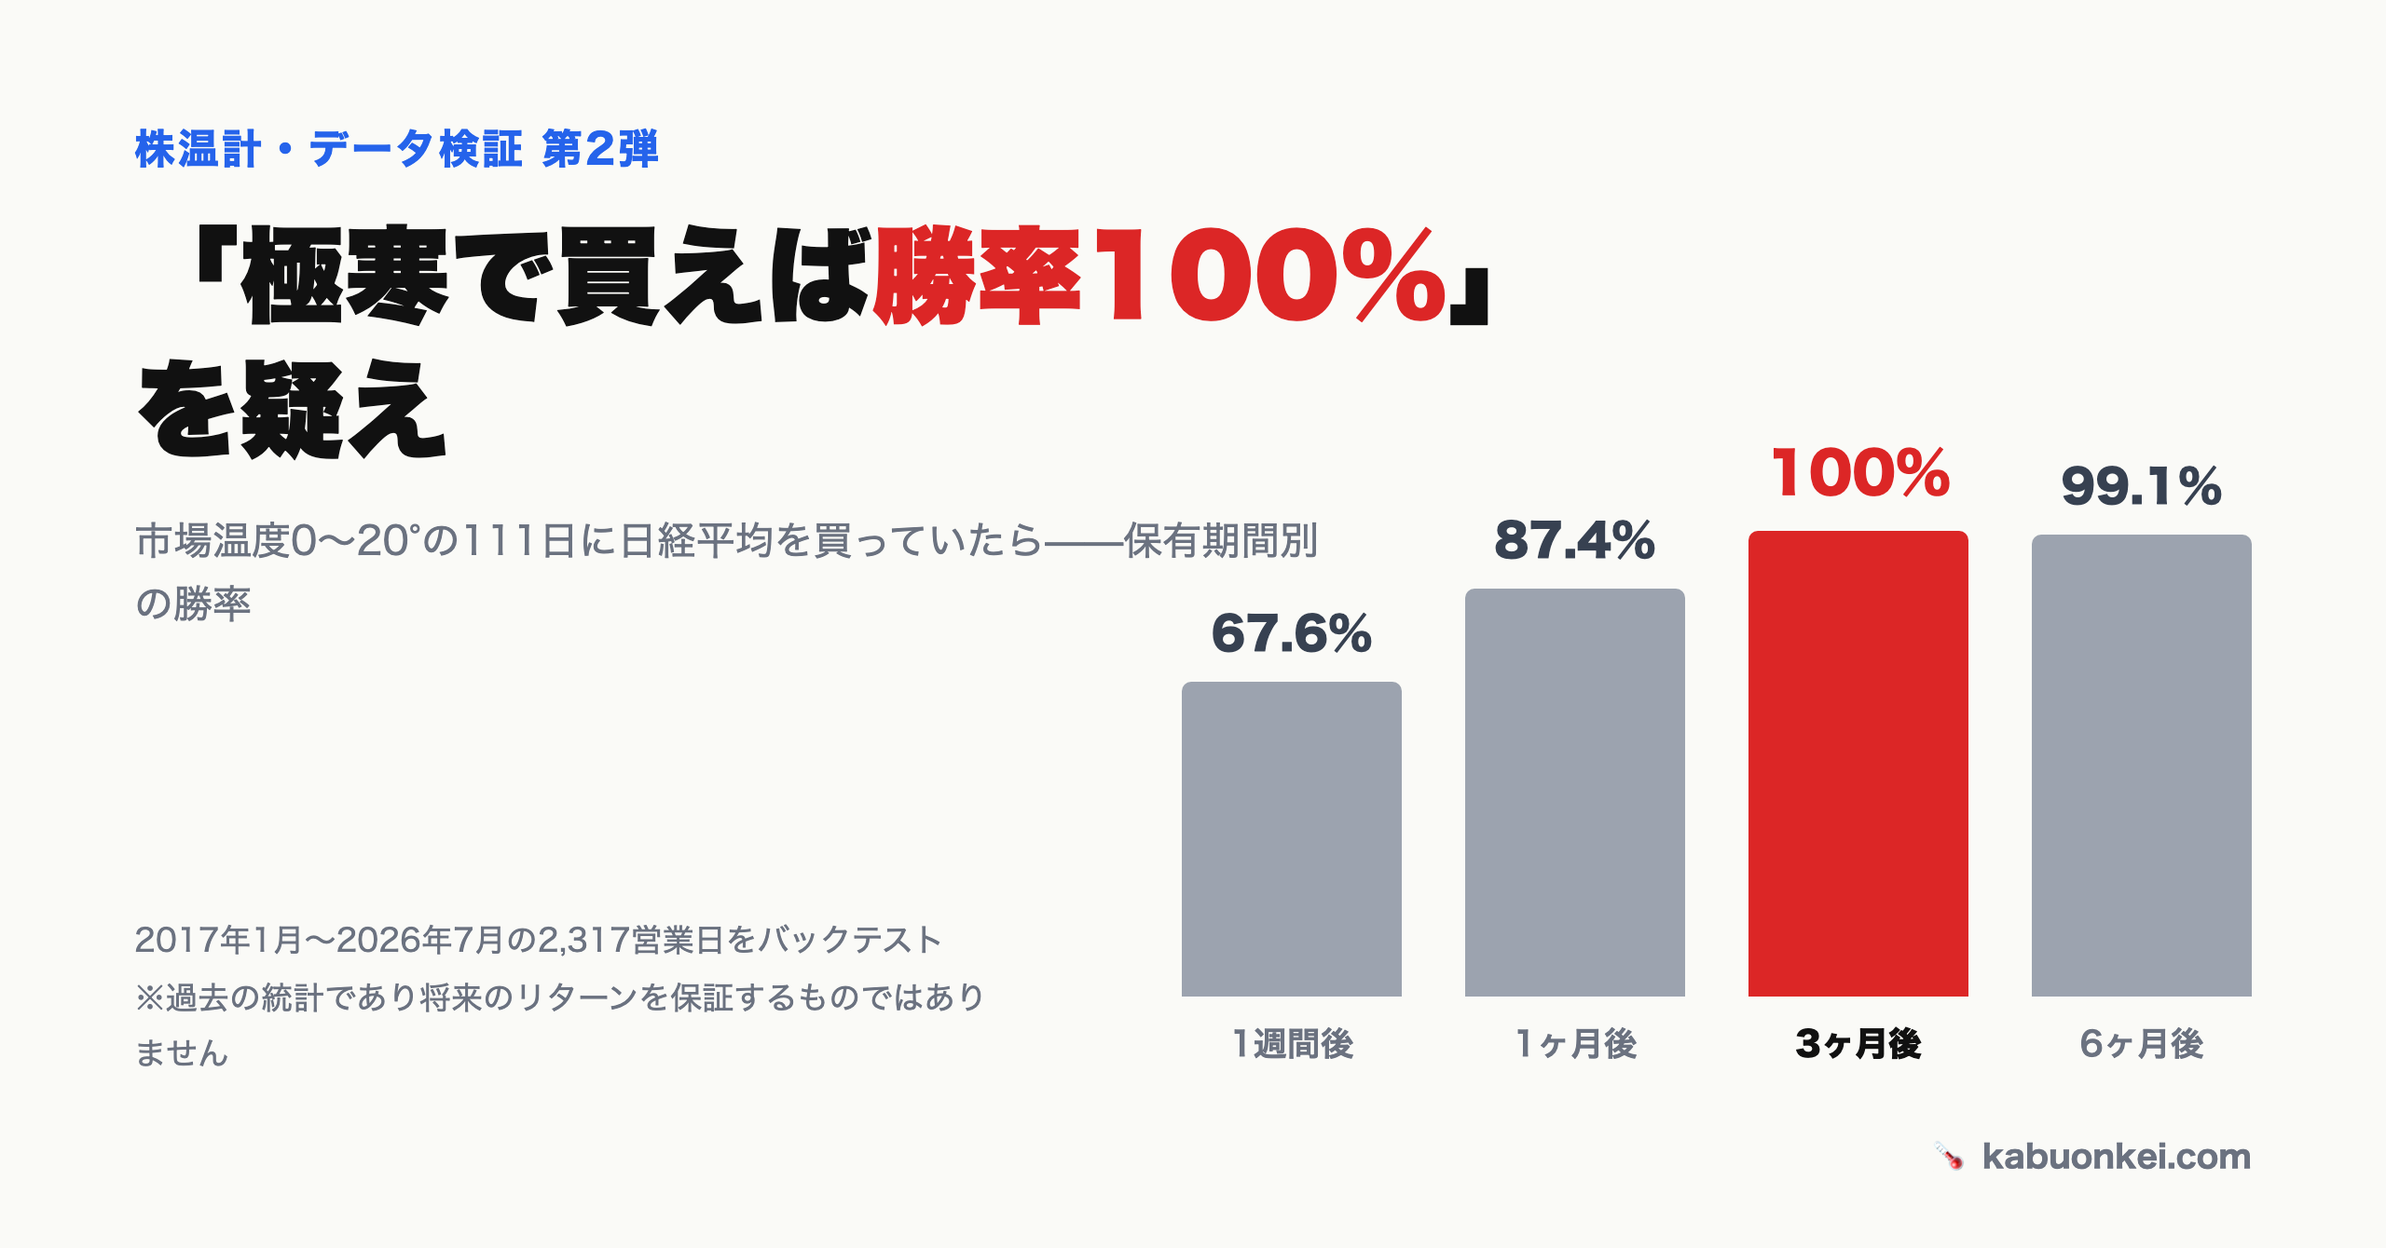
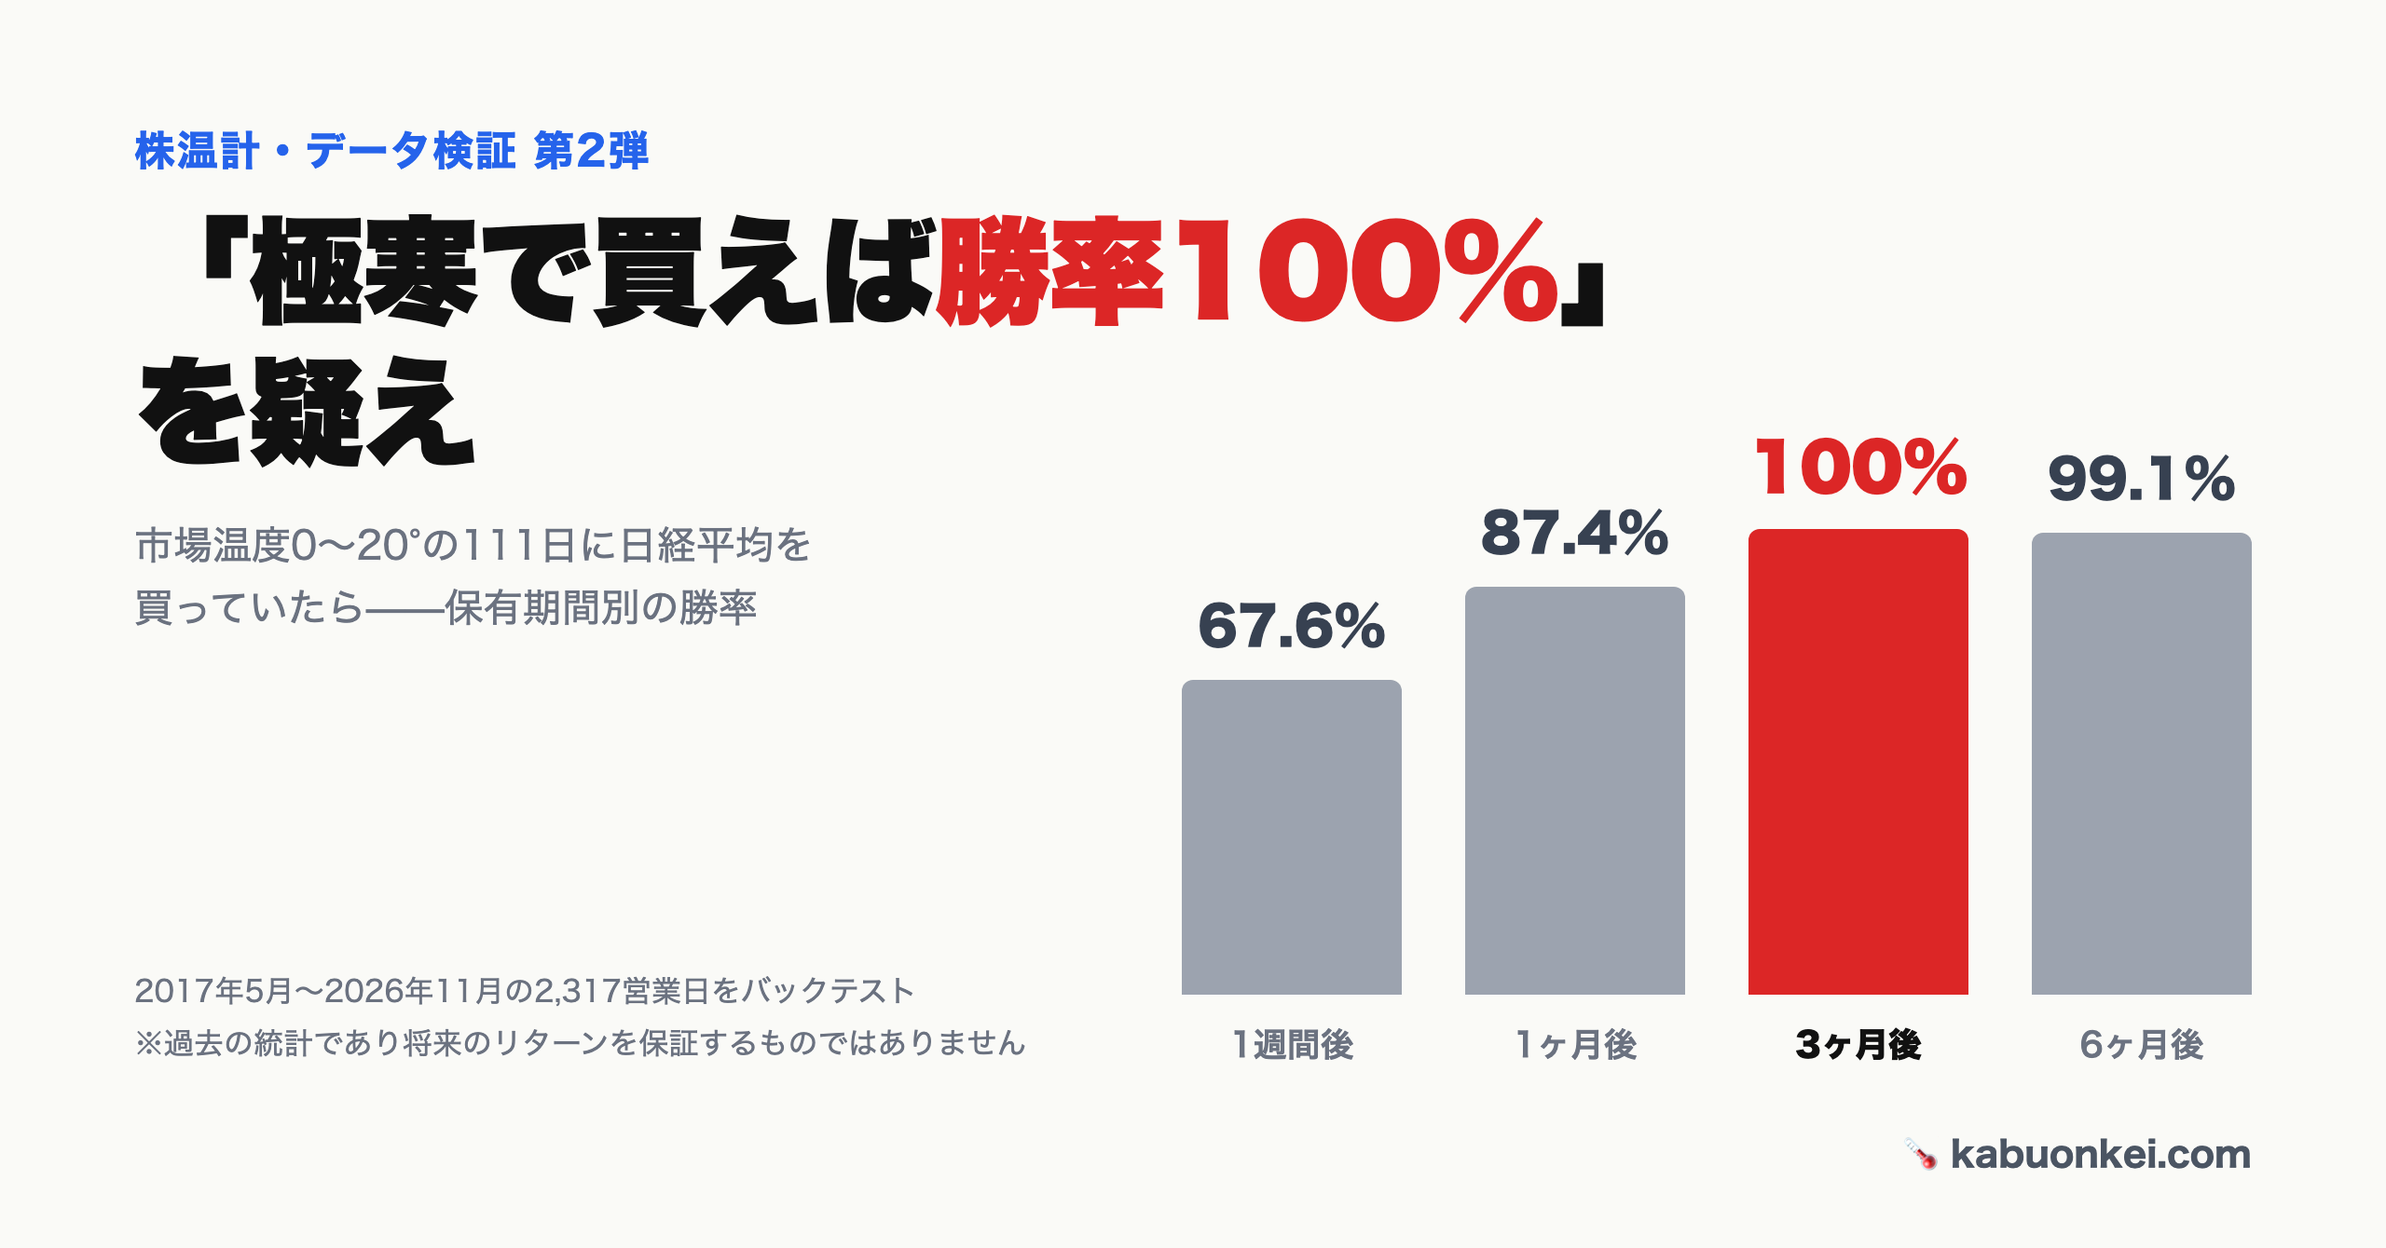
docs(note): 第2弾の数字を 2026-11-13 時点のデータで再検証し、投稿できる状態に更新
- 全統計値を現行データで再計算し、初稿（2026-07-07 基準）と一致することを確認
- 集計期間の表記を 2017年5月〜2026年11月 に更新（本文・アイキャッチ・期間別テーブル）
- 「いま、温度は何度か」を 2026-11-06 の急落（2要素版 23°、極寒まであと3°）を踏まえて書き直し
- X bot 停止中のため末尾フッターの X 導線を外し、サイトリンクを www に統一
- 図版の撮影元 HTML を images/src/ に保存し、README に撮り直し手順を追記

diff --git a/docs/note/images/src/note002-eyecatch.html b/docs/note/images/src/note002-eyecatch.html
@@ -1,0 +1,44 @@
+<!doctype html>
+<!-- note 第2弾アイキャッチ（1280×670 を 2x 撮影）。数字は japan-temperature-history.json の実値 -->
+<html lang="ja">
+<head>
+<meta charset="utf-8">
+<style>
+  * { box-sizing: border-box; margin: 0; padding: 0; }
+  body {
+    width: 1280px; height: 670px; background: #fafaf7; color: #111;
+    font-family: "Hiragino Sans", "Hiragino Kaku Gothic ProN", sans-serif;
+    position: relative; overflow: hidden;
+  }
+  .kicker { position: absolute; left: 72px; top: 64px; font-size: 22px; font-weight: 700; color: #2563eb; letter-spacing: 0.04em; }
+  h1 { position: absolute; left: 72px; top: 108px; font-size: 62px; font-weight: 900; line-height: 1.22; letter-spacing: -0.01em; }
+  h1 .hl { color: #dc2626; }
+  .lead { position: absolute; left: 72px; top: 276px; width: 500px; font-size: 21px; line-height: 1.6; color: #6b7280; }
+  .foot { position: absolute; left: 72px; bottom: 96px; width: 620px; white-space: nowrap; font-size: 16px; line-height: 1.75; color: #6b7280; }
+  .credit { position: absolute; right: 72px; bottom: 36px; font-size: 19px; font-weight: 700; color: #4b5563; }
+  .chart { position: absolute; right: 72px; bottom: 136px; display: flex; align-items: flex-end; gap: 34px; height: 310px; }
+  .col { width: 118px; display: flex; flex-direction: column; align-items: center; justify-content: flex-end; height: 100%; }
+  .val { font-size: 28px; font-weight: 800; color: #374151; margin-bottom: 8px; }
+  .bar { width: 100%; background: #9ca3af; border-radius: 6px 6px 0 0; }
+  .lab { position: absolute; bottom: -40px; font-size: 18px; font-weight: 600; color: #6b7280; }
+  .col { position: relative; }
+  .col.hot .val { color: #dc2626; font-size: 34px; font-weight: 900; }
+  .col.hot .bar { background: #dc2626; }
+  .col.hot .lab { color: #111; font-weight: 800; }
+</style>
+</head>
+<body>
+  <div class="kicker">株温計・データ検証 第2弾</div>
+  <h1>「極寒で買えば<span class="hl">勝率100%</span>」<br>を疑え</h1>
+  <p class="lead">市場温度0〜20°の111日に日経平均を<br>買っていたら——保有期間別の勝率</p>
+  <p class="foot">2017年5月〜2026年11月の2,317営業日をバックテスト<br>※過去の統計であり将来のリターンを保証するものではありません</p>
+  <!-- 棒の高さ = 勝率 × 2.5px -->
+  <div class="chart">
+    <div class="col"><div class="val">67.6%</div><div class="bar" style="height:169px"></div><div class="lab">1週間後</div></div>
+    <div class="col"><div class="val">87.4%</div><div class="bar" style="height:219px"></div><div class="lab">1ヶ月後</div></div>
+    <div class="col hot"><div class="val">100%</div><div class="bar" style="height:250px"></div><div class="lab">3ヶ月後</div></div>
+    <div class="col"><div class="val">99.1%</div><div class="bar" style="height:248px"></div><div class="lab">6ヶ月後</div></div>
+  </div>
+  <div class="credit">🌡 kabuonkei.com</div>
+</body>
+</html>

diff --git a/docs/note/images/src/note002-period-table.html b/docs/note/images/src/note002-period-table.html
@@ -1,0 +1,39 @@
+<!doctype html>
+<!-- note 第2弾 検証1 期間別テーブル（1200×585 を 2x 撮影）。配色は日本式（プラス=赤 / マイナス=青） -->
+<html lang="ja">
+<head>
+<meta charset="utf-8">
+<style>
+  * { box-sizing: border-box; margin: 0; padding: 0; }
+  body {
+    width: 1200px; height: 585px; background: #fafaf7; color: #111; padding: 46px 56px 0;
+    font-family: "Hiragino Sans", "Hiragino Kaku Gothic ProN", sans-serif; position: relative;
+  }
+  h1 { font-size: 34px; font-weight: 900; letter-spacing: -0.01em; }
+  .sub { margin-top: 18px; font-size: 17px; color: #6b7280; }
+  table { margin-top: 28px; width: 100%; border-collapse: collapse; }
+  th { background: #111827; color: #fff; font-size: 17px; font-weight: 800; height: 56px; text-align: center; }
+  th:first-child, td:first-child { text-align: left; padding-left: 20px; }
+  td { height: 62px; text-align: center; font-size: 22px; color: #374151; border-bottom: 1px solid #e5e7eb; }
+  td:first-child { font-size: 21px; font-weight: 800; color: #111; }
+  tr.hl td { background: #eff6ff; height: 66px; }
+  .up { color: #dc2626; font-weight: 800; font-size: 25px; }
+  .down { color: #2563eb; font-weight: 800; font-size: 23px; }
+  .note { position: absolute; left: 56px; bottom: 34px; font-size: 14px; color: #6b7280; }
+  .credit { position: absolute; right: 56px; bottom: 30px; font-size: 17px; font-weight: 700; color: #4b5563; }
+</style>
+</head>
+<body>
+  <h1>「極寒」の日に日経平均を買った場合——保有期間別の成績</h1>
+  <p class="sub">2017年5月〜2026年11月に温度が極寒（0〜20°）だった111日を集計（2要素簡易版スコア）</p>
+  <table>
+    <tr><th>保有期間</th><th>勝率</th><th>平均リターン</th><th>中央値</th><th>最悪のケース</th></tr>
+    <tr><td>1週間後</td><td>67.6%</td><td>+0.9%</td><td>+1.4%</td><td><span class="down">-16.0%</span></td></tr>
+    <tr><td>1ヶ月後</td><td>87.4%</td><td>+4.7%</td><td>+5.0%</td><td><span class="down">-15.6%</span></td></tr>
+    <tr class="hl"><td>3ヶ月後</td><td><span class="up">100%</span></td><td><span class="up">+11.5%</span></td><td><span class="up">+9.6%</span></td><td><span class="up">+1.4%</span></td></tr>
+    <tr><td>6ヶ月後</td><td>99.1%</td><td>+20.6%</td><td>+20.5%</td><td><span class="down">-0.1%</span></td></tr>
+  </table>
+  <p class="note">※過去の統計であり将来のリターンを保証するものではありません</p>
+  <div class="credit">🌡 kabuonkei.com</div>
+</body>
+</html>

diff --git a/docs/note/002-gokkan-win-rate-anatomy.md b/docs/note/002-gokkan-win-rate-anatomy.md
@@ -10,12 +10,18 @@
 
 <!--
 note投稿用原稿（第2弾）
-- データ基準日: 2026-07-07（japan-temperature-history.json generatedAt。全2,317営業日・極寒111日）
+- データ基準日: 2026-11-13（japan-temperature-history.json generatedAt。全2,317営業日・極寒111日）。
+  初稿は 2026-07-07 基準。2026-11-16 に全数字を再計算し、統計値はすべて初稿と一致（10年の集計窓が
+  2017年1月〜→2017年5月〜にずれたが、極寒日は2018年3月以降にしか無く、7月以降の新規発生も無いため）
 - 集計ロジック: scripts/_lib/shared.ts の findForwardPrice と同一（カレンダー30/90/180日後に最も近い取引日、7日以内に取引日が無ければ除外）。
   温度帯別の集計値は公開中の japan-historical-stats.json（極寒111日・3ヶ月後 +11.5%/勝率100%・6ヶ月後 +20.6%/99.1%）と一致確認済み
-- 温度の現在値: 2026-07-07 時点の本体5要素版 日本67°（過熱）、日経平均 68,256円
-- 投稿時の作業: 図版添付（images/ 参照）、markdown表を削除して表画像に置換、Xハンドルのプレースホルダを実値に置換
-- 図版（作成済み。スタイル付き HTML を headless browser で 2x 撮影）:
+- 温度の現在値: 2026-11-13 時点の2要素版 52°（平温）/ 本体5要素版 67°（過熱）、日経平均 61,142円。
+  2026-11-06（AI規制ショック）は2要素版 23° / 5要素版 65°、日経平均 57,435円（前日比 -5.96%）
+- 投稿時の作業: 図版添付（images/ 参照）、markdown表を削除して表画像に置換。
+  投稿日が 11/13 から大きくずれる場合は「いま、温度は何度か」の数字を最新値に更新する
+- X bot は 2026-11-06 から停止中のため、末尾フッターの X 導線は外してある（再開したら戻す）
+- 図版（作成済み。スタイル付き HTML を headless browser で 2x 撮影。アイキャッチと期間別テーブルは
+  集計期間の表記を更新して 2026-11-16 に再生成、HTML ソースは images/src/）:
   - アイキャッチ: images/note002-eyecatch.png（タイトル + 保有期間別勝率の棒チャート、1280×670）
   - images/note002-period-table.png（検証1: 期間別テーブル）
   - images/note002-episode-table.png（検証2: 6暴落イベント別テーブル）
@@ -48,7 +54,7 @@ note投稿用原稿（第2弾）
 
 「株温計」は、日本市場のセンチメントを0〜100の温度で毎日測っている個人開発サイトです。0°が極度の恐怖、100°が極度の欲望。このうち**20°以下を「極寒」**と呼んでいます。
 
-過去約10年（2017年1月〜2026年7月、スコアを算出できる2,317営業日）で、極寒だった日は**111日**。全営業日のわずか**4.8%**、年平均で12日ほどしかありません。市場が本気で恐怖に沈む日は、それくらい珍しいということです。
+過去約10年（2017年5月〜2026年11月、スコアを算出できる2,317営業日）で、極寒だった日は**111日**。全営業日のわずか**4.8%**、年平均で12日ほどしかありません。市場が本気で恐怖に沈む日は、それくらい珍しいということです。
 
 ※過去検証のスコアは前回同様、長期データが揃う2要素（日経225モメンタム＋ドル円モメンタム）の簡易版です。
 
@@ -146,7 +152,15 @@ note投稿用原稿（第2弾）
 
 ## いま、温度は何度か
 
-この記事を書いている2026年7月7日時点、日経平均は68,257円、株温計の日本市場温度は**67°（過熱）**です。極寒とは正反対の、欲望側に傾いた水準にいます。
+この記事を仕上げている最中に、ちょうど試金石になりそうな日がありました。
+
+2026年11月6日、日経平均は1日で**-5.96%**（終値57,435円）の急落。この記事の検証に使っている2要素版の温度は**23°**まで下がりました。2025年5月以来の低さで、極寒（20°以下）まであと3°です。
+
+結果から言うと、極寒には届きませんでした。日経平均は翌営業日から反発し、11月13日の終値は61,142円、温度は52°（平温）まで戻っています。今回の急落は、この記事の「7回目」には数えられません。
+
+検証4で「底の深さは事前には分からない」と書きましたが、それは極寒の手前でも同じでした。20°を割るのか、23°で止まるのかは、その日には誰にも分かりません。
+
+もうひとつ正直に書いておくと、サイトのトップに出している本体の温度（需給データも含めた5要素版）は、この日も65°（過熱）のままでした。海外投資家の買い越しや信用倍率といった需給側の数字が高止まりしていたためです。株価だけを見れば恐怖、需給を見ればまだ過熱という、割れた状態でした。11月13日時点は67°（過熱）です。
 
 次の極寒がいつ来るかは誰にも分かりません。ただ、来たときにこの記事の表を思い出せるように、株温計は毎日温度を測り続けています。
 
@@ -157,9 +171,8 @@ note投稿用原稿（第2弾）
 ## 株温計はこちら
 
 - 🌡 **株温計** — 日本市場と米国市場の「今日の温度」を毎日更新しています。この記事の温度帯別統計もトップページでいつでも最新版を見られます
-  https://kabuonkei.com/?utm_source=note&utm_medium=article&utm_campaign=note-002
-- 🐦 **X で毎朝、今日の温度を投稿しています** → （Xアカウントリンクを挿入）
+  https://www.kabuonkei.com/?utm_source=note&utm_medium=article&utm_campaign=note-002
 - 📧 **温度アラート** — 温度が極端（20°以下 / 80°以上）になったときだけメールでお知らせ（無料）
-  https://kabuonkei.com/alerts?utm_source=note&utm_medium=article&utm_campaign=note-002
+  https://www.kabuonkei.com/alerts?utm_source=note&utm_medium=article&utm_campaign=note-002
 
 ※本記事は情報提供を目的としたものであり、特定の金融商品の売買を推奨するものではありません。投資判断はご自身の責任でお願いします。

diff --git a/docs/note/README.md b/docs/note/README.md
@@ -33,7 +33,7 @@
 | # | タイトル（仮） | 型 | 主データ | 状態 |
 |---|---|---|---|---|
 | 001 | 日本版「Fear & Greed Index」が無かったので、自分で作った | 開発ストーリー | japan-historical-stats / japan-temperature-history | 原稿あり（[001-japan-fear-greed-story.md](001-japan-fear-greed-story.md)） |
-| 002 | 「極寒で買えば勝率100%」を疑え——111日ぶんの中身を全部バラしてみた | データ検証 | japan-temperature-history / japan-historical-stats | 原稿あり（[002-gokkan-win-rate-anatomy.md](002-gokkan-win-rate-anatomy.md)）。図版5点は未作成 |
+| 002 | 「極寒で買えば勝率100%」を疑え——111日ぶんの中身を全部バラしてみた | データ検証 | japan-temperature-history / japan-historical-stats | 原稿あり（[002-gokkan-win-rate-anatomy.md](002-gokkan-win-rate-anatomy.md)）。図版5点作成済み、2026-11-16 に 11/13 時点のデータで全数字を再検証。投稿待ち |
 | 003 | VIXが30を超えた日、S&P500はどう動いたか | /analysis 転用 | vix-sp500-analysis | 予定 |
 | 004 | 信用倍率と市場温度のクロス分析 | データ検証 | margin-ratio-analysis | 予定 |
 | 005 | 「極寒」のとき強い業種はどこか — 温度帯×17セクター | データ検証 | japan-sector-heatmap | 予定（サイト未実装の先出しネタ） |
@@ -45,7 +45,7 @@
 - **温度カード（アイキャッチ向け）**: `https://kabuonkei.com/api/og/daily?jp=<score>&us=<score>&date=YYYY-MM-DD` で任意スコア・任意日付の 1200×630 PNG を生成できる（X bot と同じエンドポイント）
 - **サイト UI（ゲージ・チャート）**: 本番サイトのスクリーンショット
 - **統計表**: note は markdown 表非対応。スタイル付き HTML を組んで headless browser で 2x スケール撮影し画像化する（例: `images/backtest-table.png`。免責文と `kabuonkei.com` クレジットを画像内に入れる）
-- 生成した図版は `docs/note/images/` に保存し、原稿から相対パスで参照する
+- 生成した図版は `docs/note/images/` に保存し、原稿から相対パスで参照する。撮影元の HTML は `docs/note/images/src/` に残す（データ更新で数字や期間表記が変わったときに撮り直せるようにするため）。撮影例: `"/Applications/Google Chrome.app/Contents/MacOS/Google Chrome" --headless=new --hide-scrollbars --force-device-scale-factor=2 --window-size=1280,670 --screenshot=<出力.png> file://<ソース.html>`
 
 ## 投稿フロー
 
